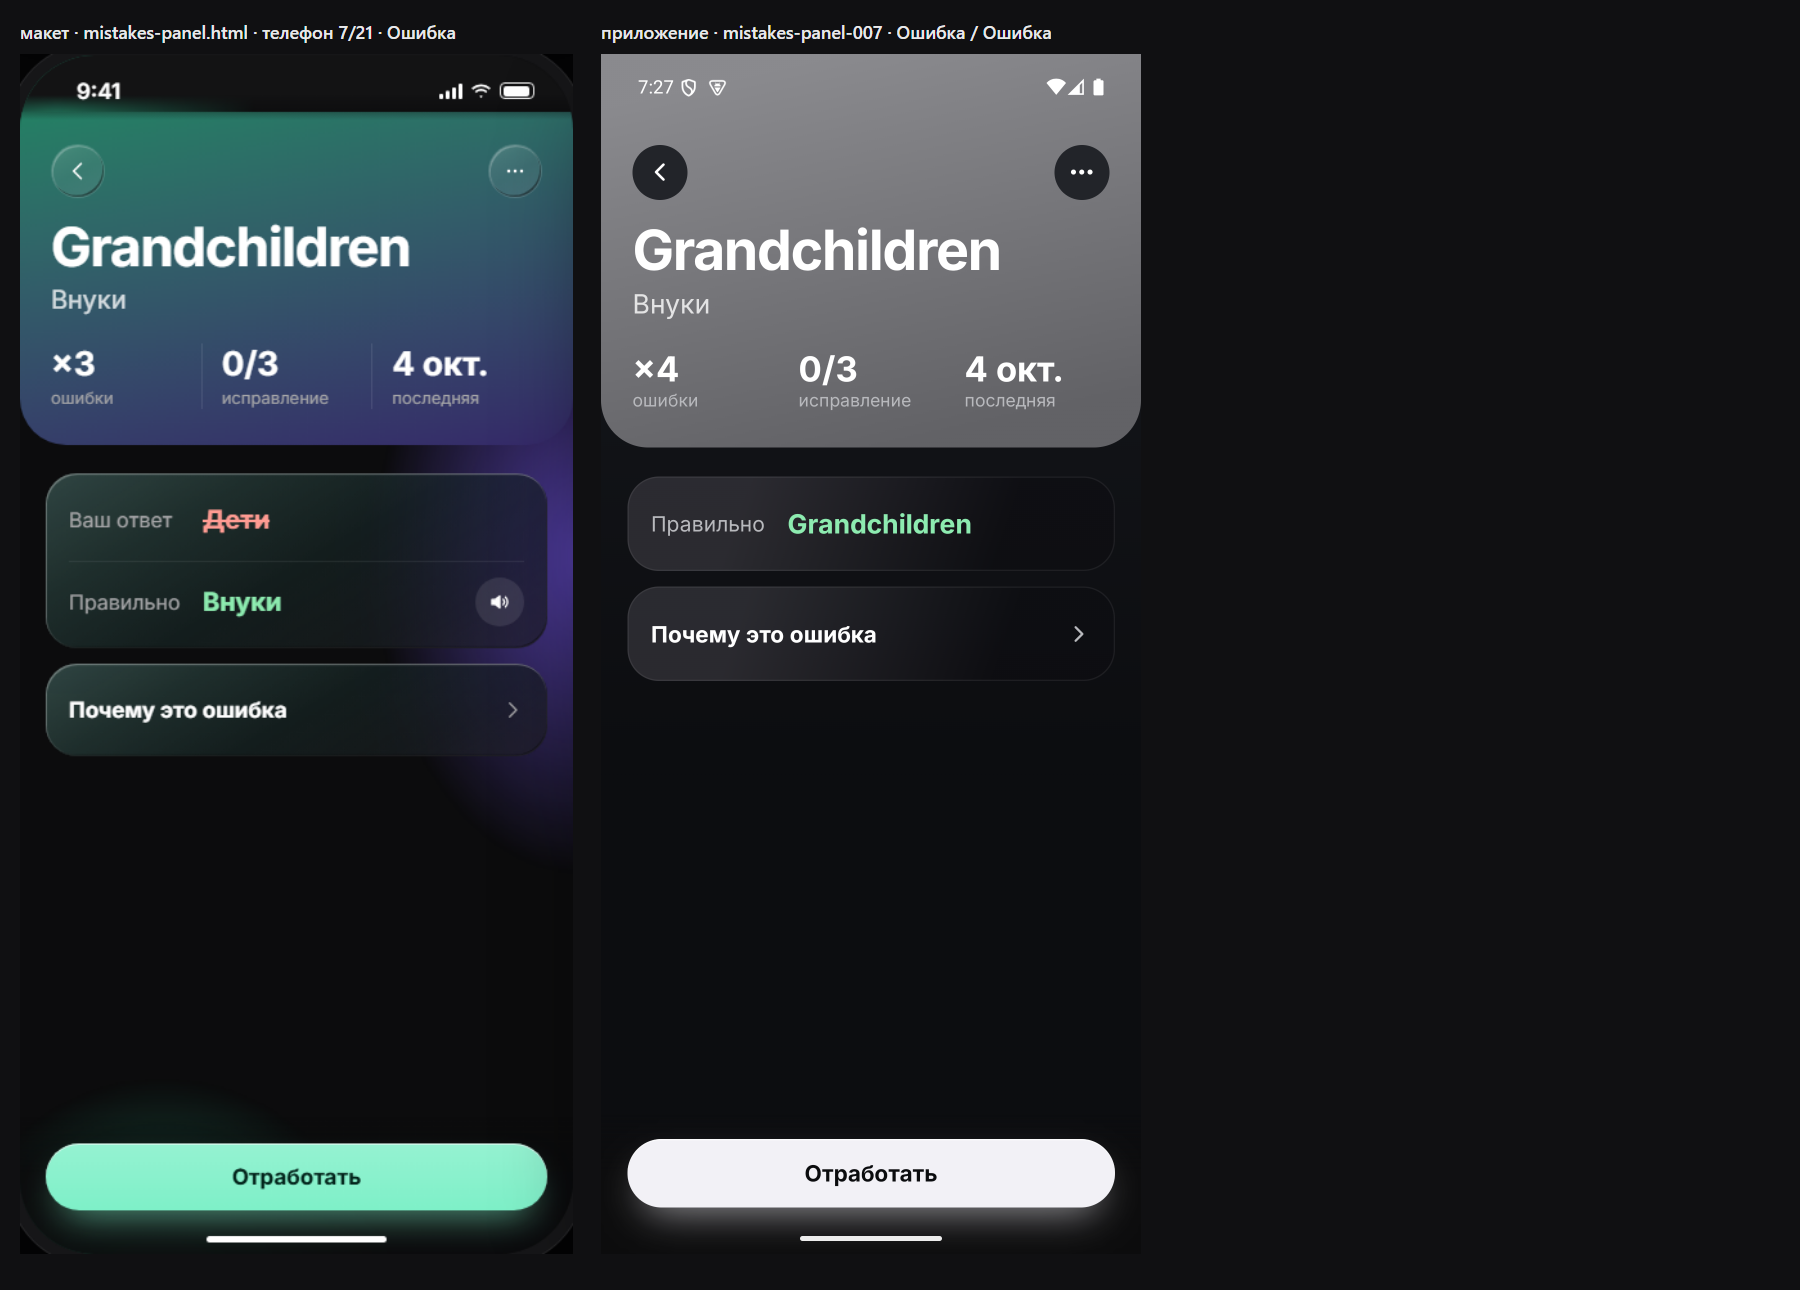
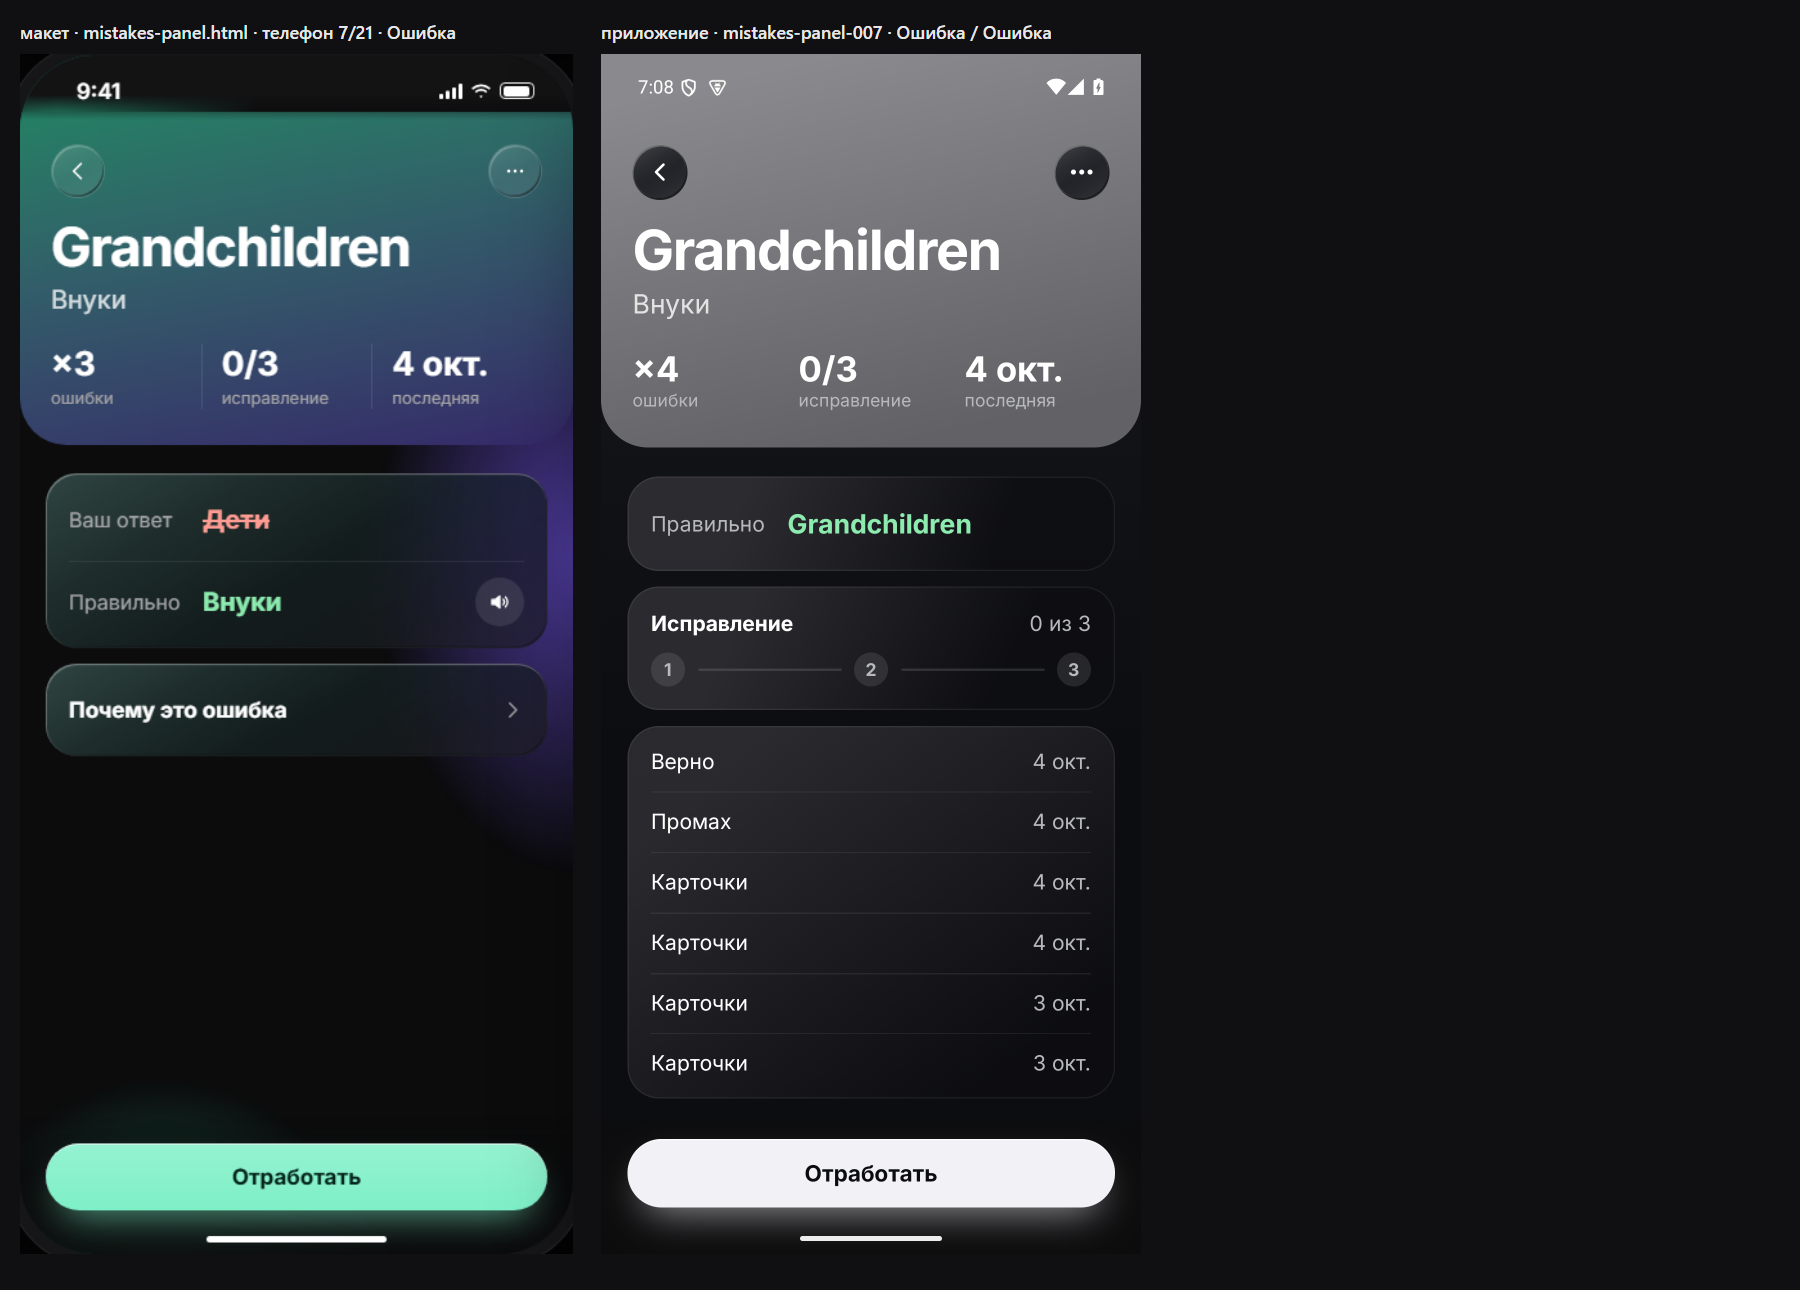
docs(sverka): mistakes-panel 002/004/007 пересняты, логи направления

Changed region(s): [[0.3422, 0.4651, 0.5289, 0.7442], [0.3733, 0.7752, 0.4044, 0.8372], [0.5911, 0.4961, 0.6222, 0.5271]]

diff --git a/docs/phraseman-2.0/INBOX_COORDINATOR_FROM_SVERKA.md b/docs/phraseman-2.0/INBOX_COORDINATOR_FROM_SVERKA.md
@@ -282,3 +282,10 @@ av_back_check.txt, 1 строка): [NAV-BACK] decision leaving=/lingman_playlis
 
 ## 07:01 — эмулятор упал на открытии набора «Family» (Карточки → Мои наборы → тап по строке)
 После подъёма приложение стартовало заново. Экран набора со стеклом — в копилку «стекло роняет qemu».
+
+## 07:13 — «Ошибки»: пересняты 002/004/007 (после стеклянной кромки); логи направления
+- 002: кромка у «‹» и карточки есть — старый diff снят; ❓ хаб «0 исправлено», а Главная «3/5» и сессия 3/12.
+- 007: оставлены «Правильно — английским» и «Ваш ответ»; ещё нет «послушать», «Почему это ошибка», разделителей шапки; ❓ в истории «Верно 4 окт.», а шаги 0/3.
+- 004: кромка шторки и тень «Начать» есть — сняты; затемнение под шторкой всё ещё слабее.
+- Логи: C:\Temp\claude\mistake_direction_logs.txt — 3 строки [MISTAKE-DETAIL] direction (Grandchildren/Daddy/Granny: facet=meaning, sourceGroup=cards, correctRowShows=phrase, phraseScript=latin, meaningScript=cyrillic, hasGiven=false).
+- ⛔ [MISTAKE-SESSION] exercise:direction НЕ сняты: «Начать» в шторке стоит ⚡1 энергии — по запрету трат не нажимала. Нужно разрешение (или снять утром с владельцем).
